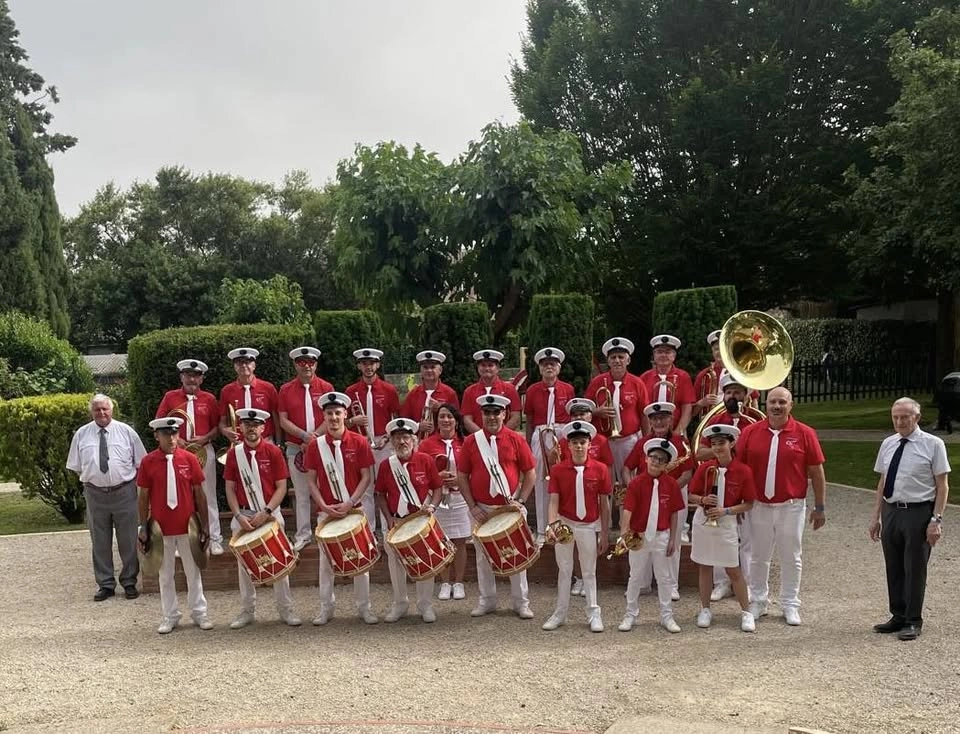
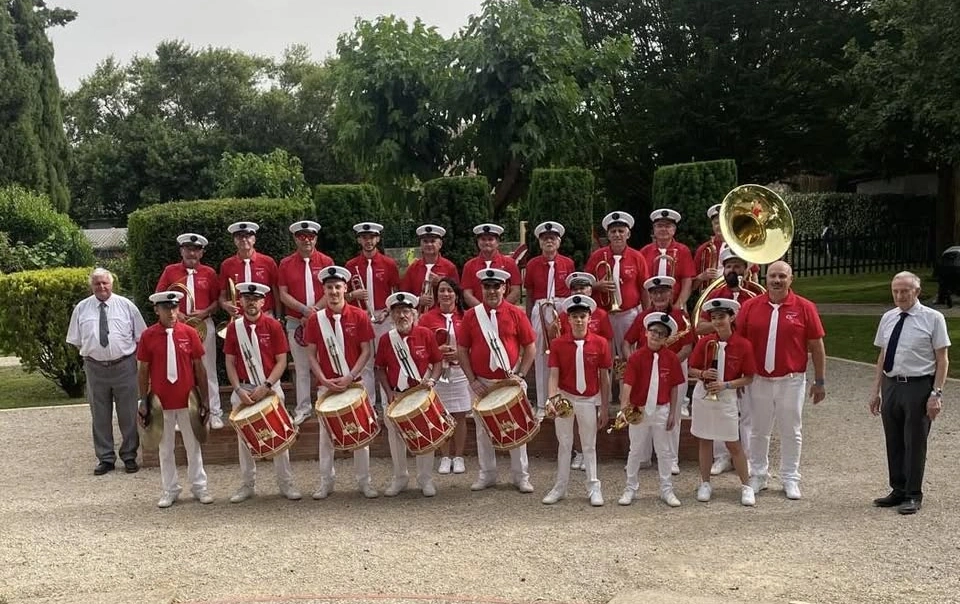
photos

diff --git a/index.html b/index.html
@@ -6,7 +6,7 @@
     <title>Harmonies en Fête 2025 - Saint-Lys</title>
     
     <!-- Cache-busting: changez le numéro de version à chaque mise à jour -->
-    <link rel="stylesheet" href="styles.css?v=1.0.0">
+    <link rel="stylesheet" href="styles.css?v=1.1.0">
     
     <!-- Meta tags pour éviter la mise en cache du HTML -->
     <meta http-equiv="Cache-Control" content="no-cache, no-store, must-revalidate">

diff --git a/styles.css b/styles.css
@@ -417,8 +417,7 @@
         }
 
         .orchestra-image {
-            width: 100%;
-            height: 300px;
+            width: 100%;           
             background: linear-gradient(135deg, #ff6b9d 0%, #ffa726 25%, #ffeb3b 50%, #4fc3f7 75%, #ab47bc 100%);
             display: flex;
             align-items: center;
